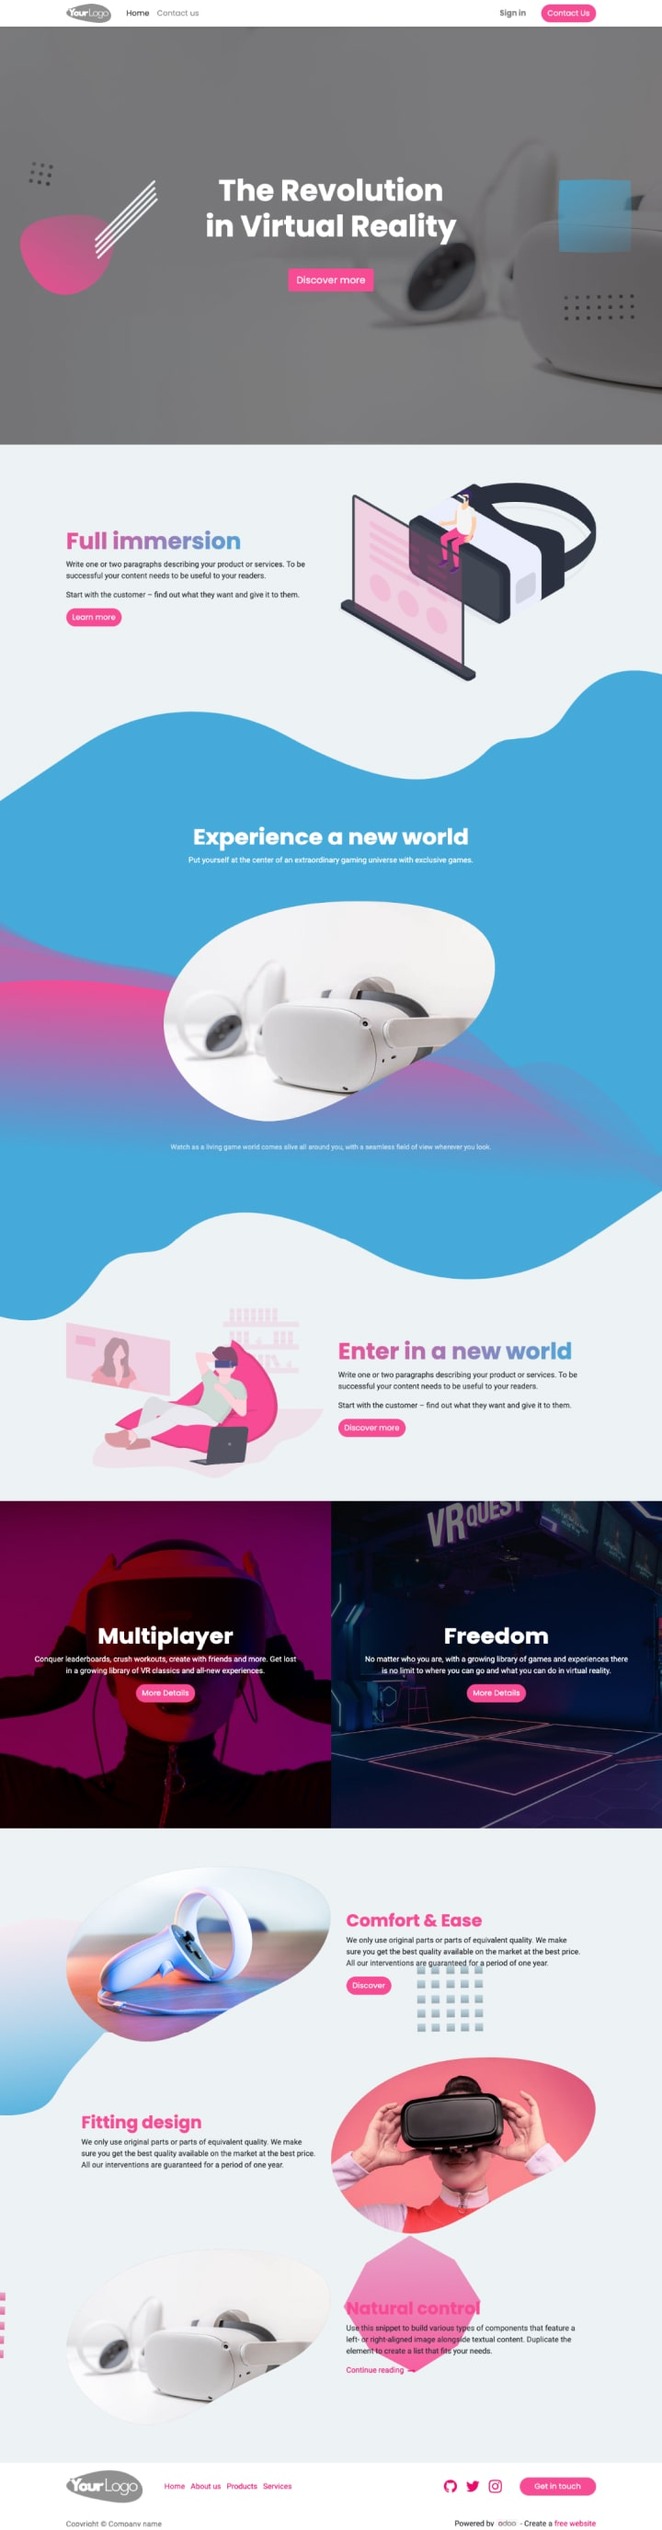
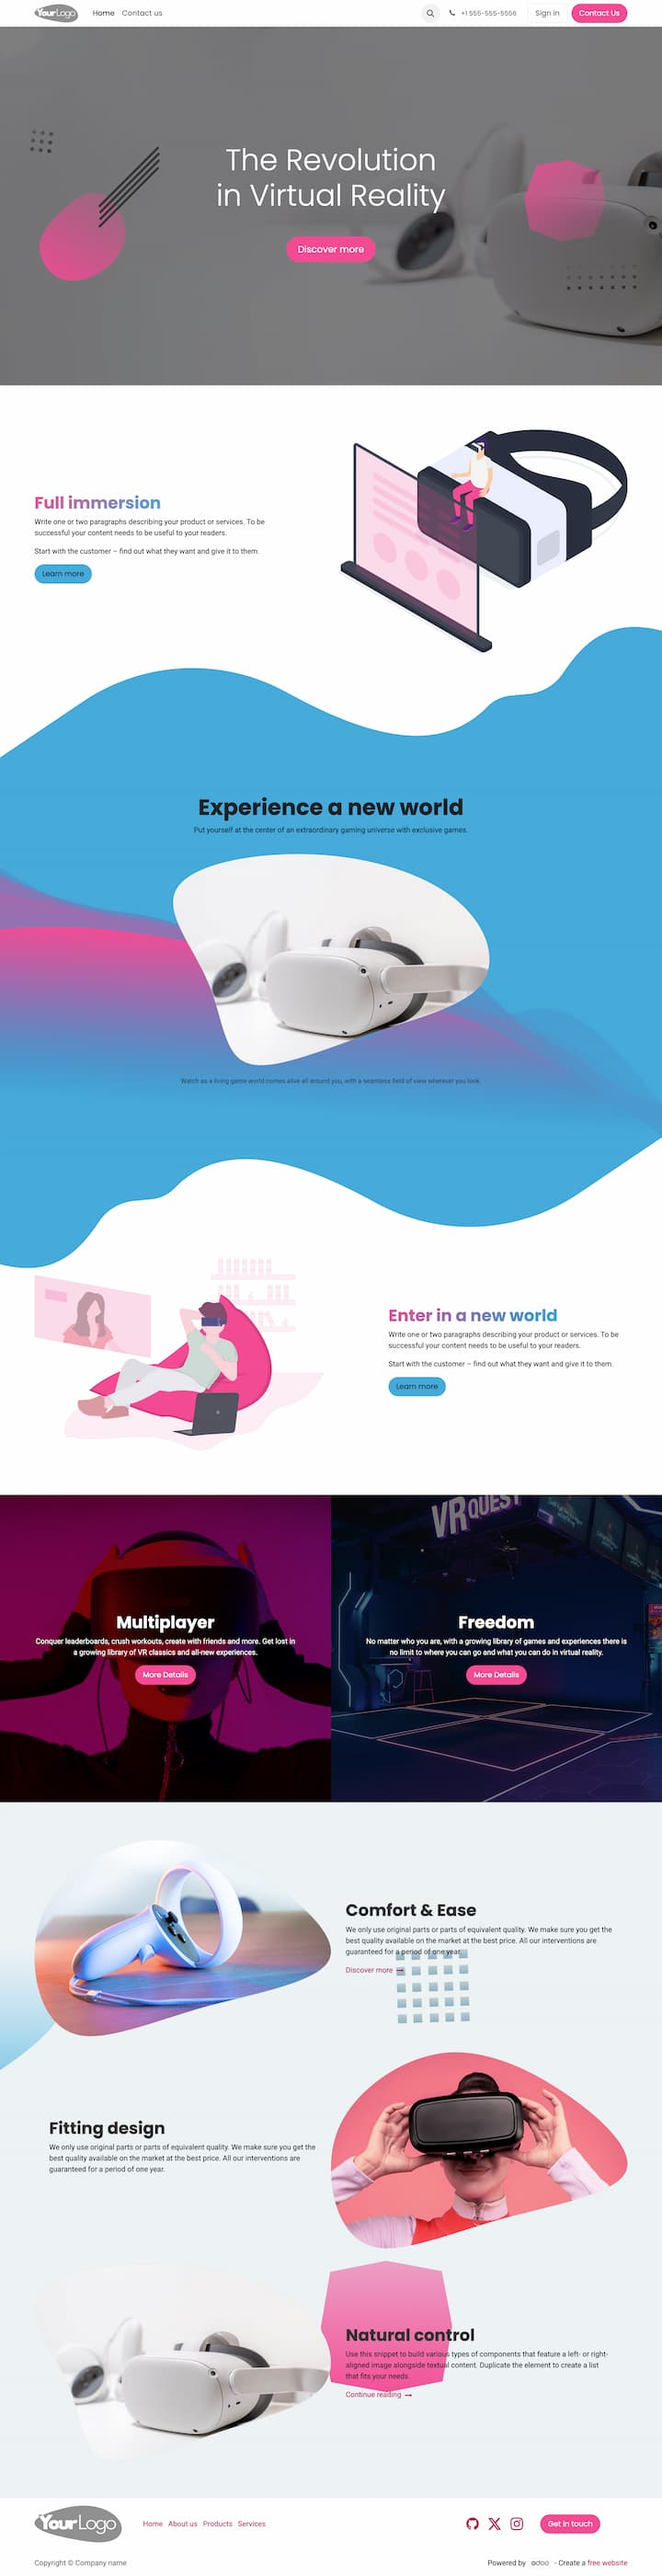
[IMP] theme_kea: revamp theme
small design fixes.

task-4178076
Part of task-4177975

diff --git a/theme_kea/static/src/scss/primary_variables.scss b/theme_kea/static/src/scss/primary_variables.scss
@@ -70,7 +70,7 @@ $headings-font-weight:700;
 
 $o-theme-font-configs: (
     'Poppins': (
-        'family': ('Poppins', sans-serif), 
+        'family': ('Poppins', sans-serif),
         'url': 'Poppins:300,300i,400,400i,700,700i',
     ),
     'Rajdhani': (
@@ -117,7 +117,12 @@ $o-website-values-palettes: (
         'buttons-font': 'Poppins',
         // Links / Buttons
         'link-underline': 'never',
+        'btn-padding-y': .5rem,
+        'btn-padding-x': 1rem,
+        'btn-padding-y-lg': .75rem,
+        'btn-padding-x-lg': 1.5rem,
         'btn-border-radius': 10rem,
+        'btn-border-radius-lg': 10rem,
         // Footer
         'footer-template': 'minimalist',
         'footer-effect': 'slideout_slide_hover',

diff --git a/theme_kea/__manifest__.py b/theme_kea/__manifest__.py
@@ -45,6 +45,7 @@
         'views/snippets/s_image_hexagonal.xml',
         'views/snippets/s_striped_center_top.xml',
         'views/snippets/s_image_title.xml',
+        'views/snippets/s_image_punchy.xml',
         'views/snippets/s_key_images.xml',
         'views/snippets/s_quadrant.xml',
         'views/snippets/s_big_number.xml',
